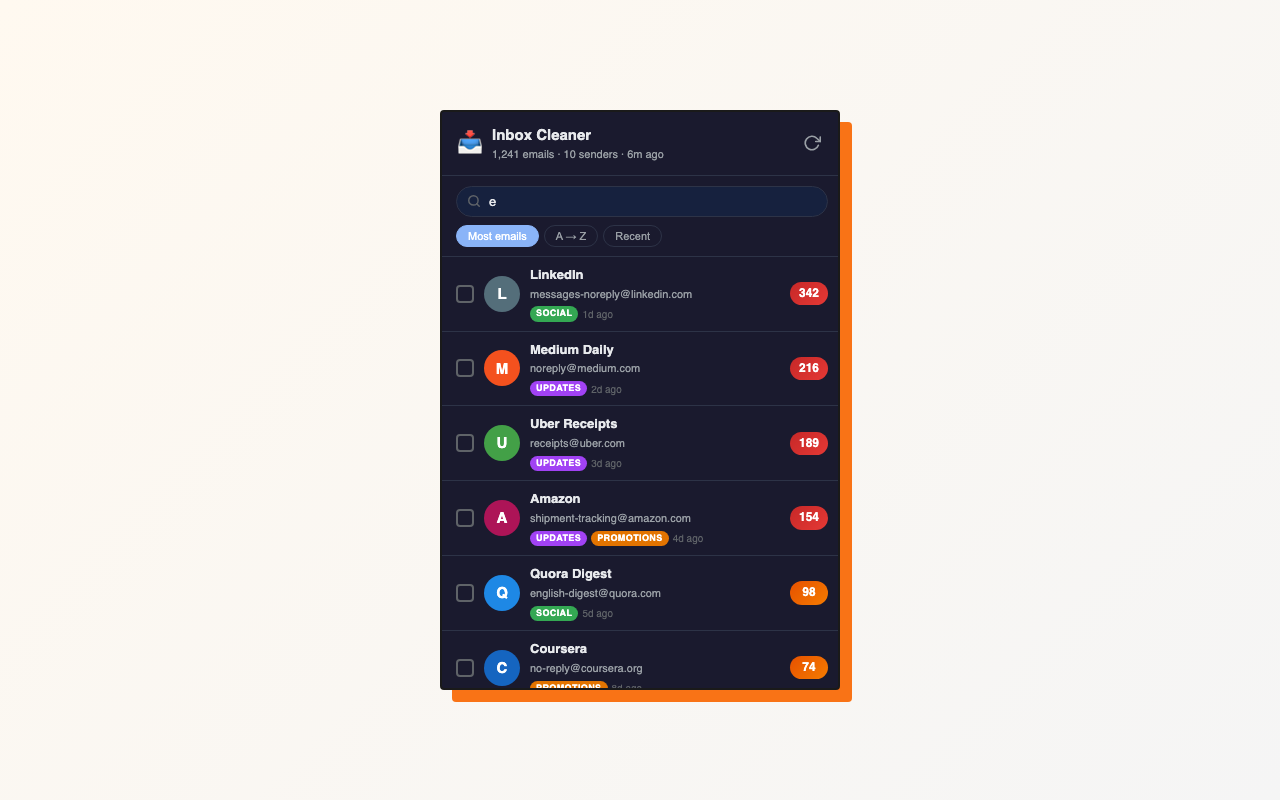
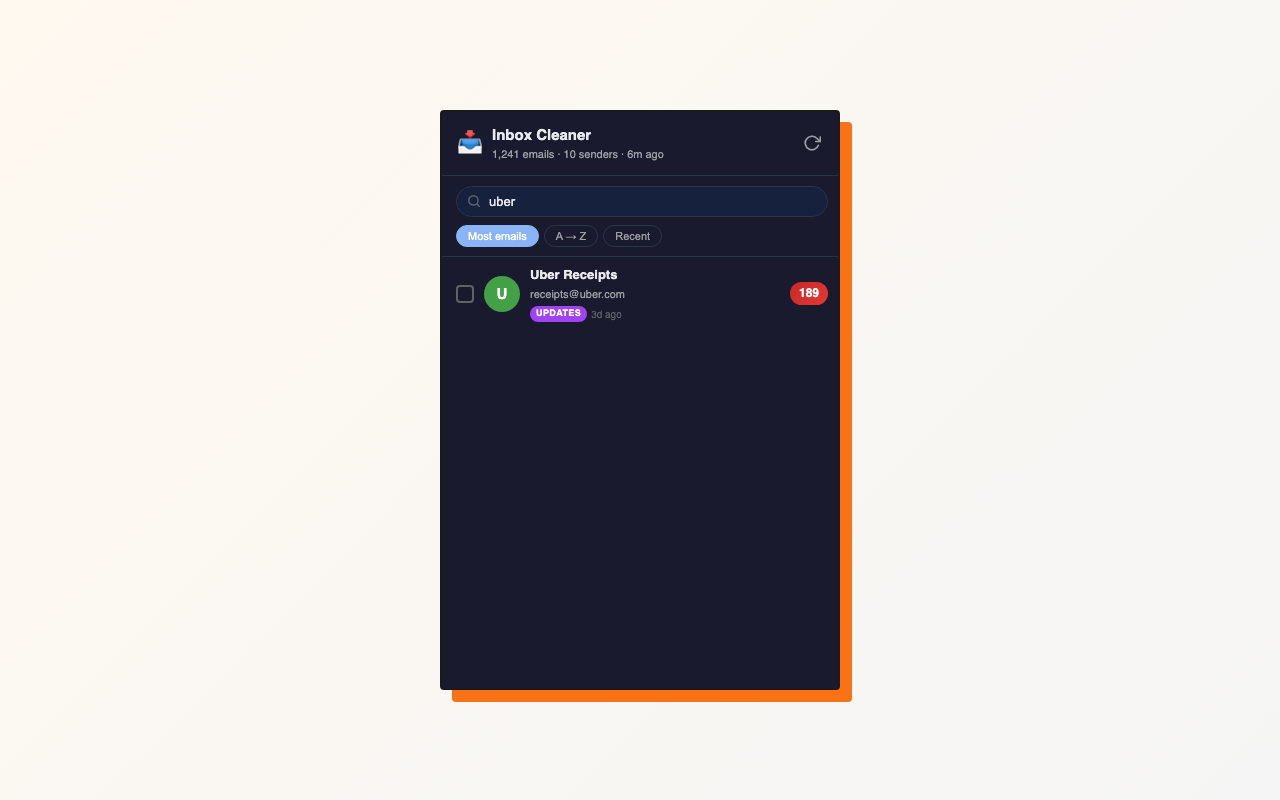
fix: change search-sort demo term from 'e' to 'uber' for visible filtering
The prior search term 'e' matched all 10 demo senders (every email contains 'e'),
producing a visually unfiltered list. 'uber' narrows to Uber Receipts only.

diff --git a/scripts/screenshots/harness.js b/scripts/screenshots/harness.js
@@ -60,7 +60,7 @@ const STATES = {
   'ranked-list': () => {},
   'search-sort': () => {
     const search = document.getElementById('search');
-    search.value = 'e';
+    search.value = 'uber';
     search.dispatchEvent(new Event('input', { bubbles: true }));
   },
   'selection': () => clickRows(3),
